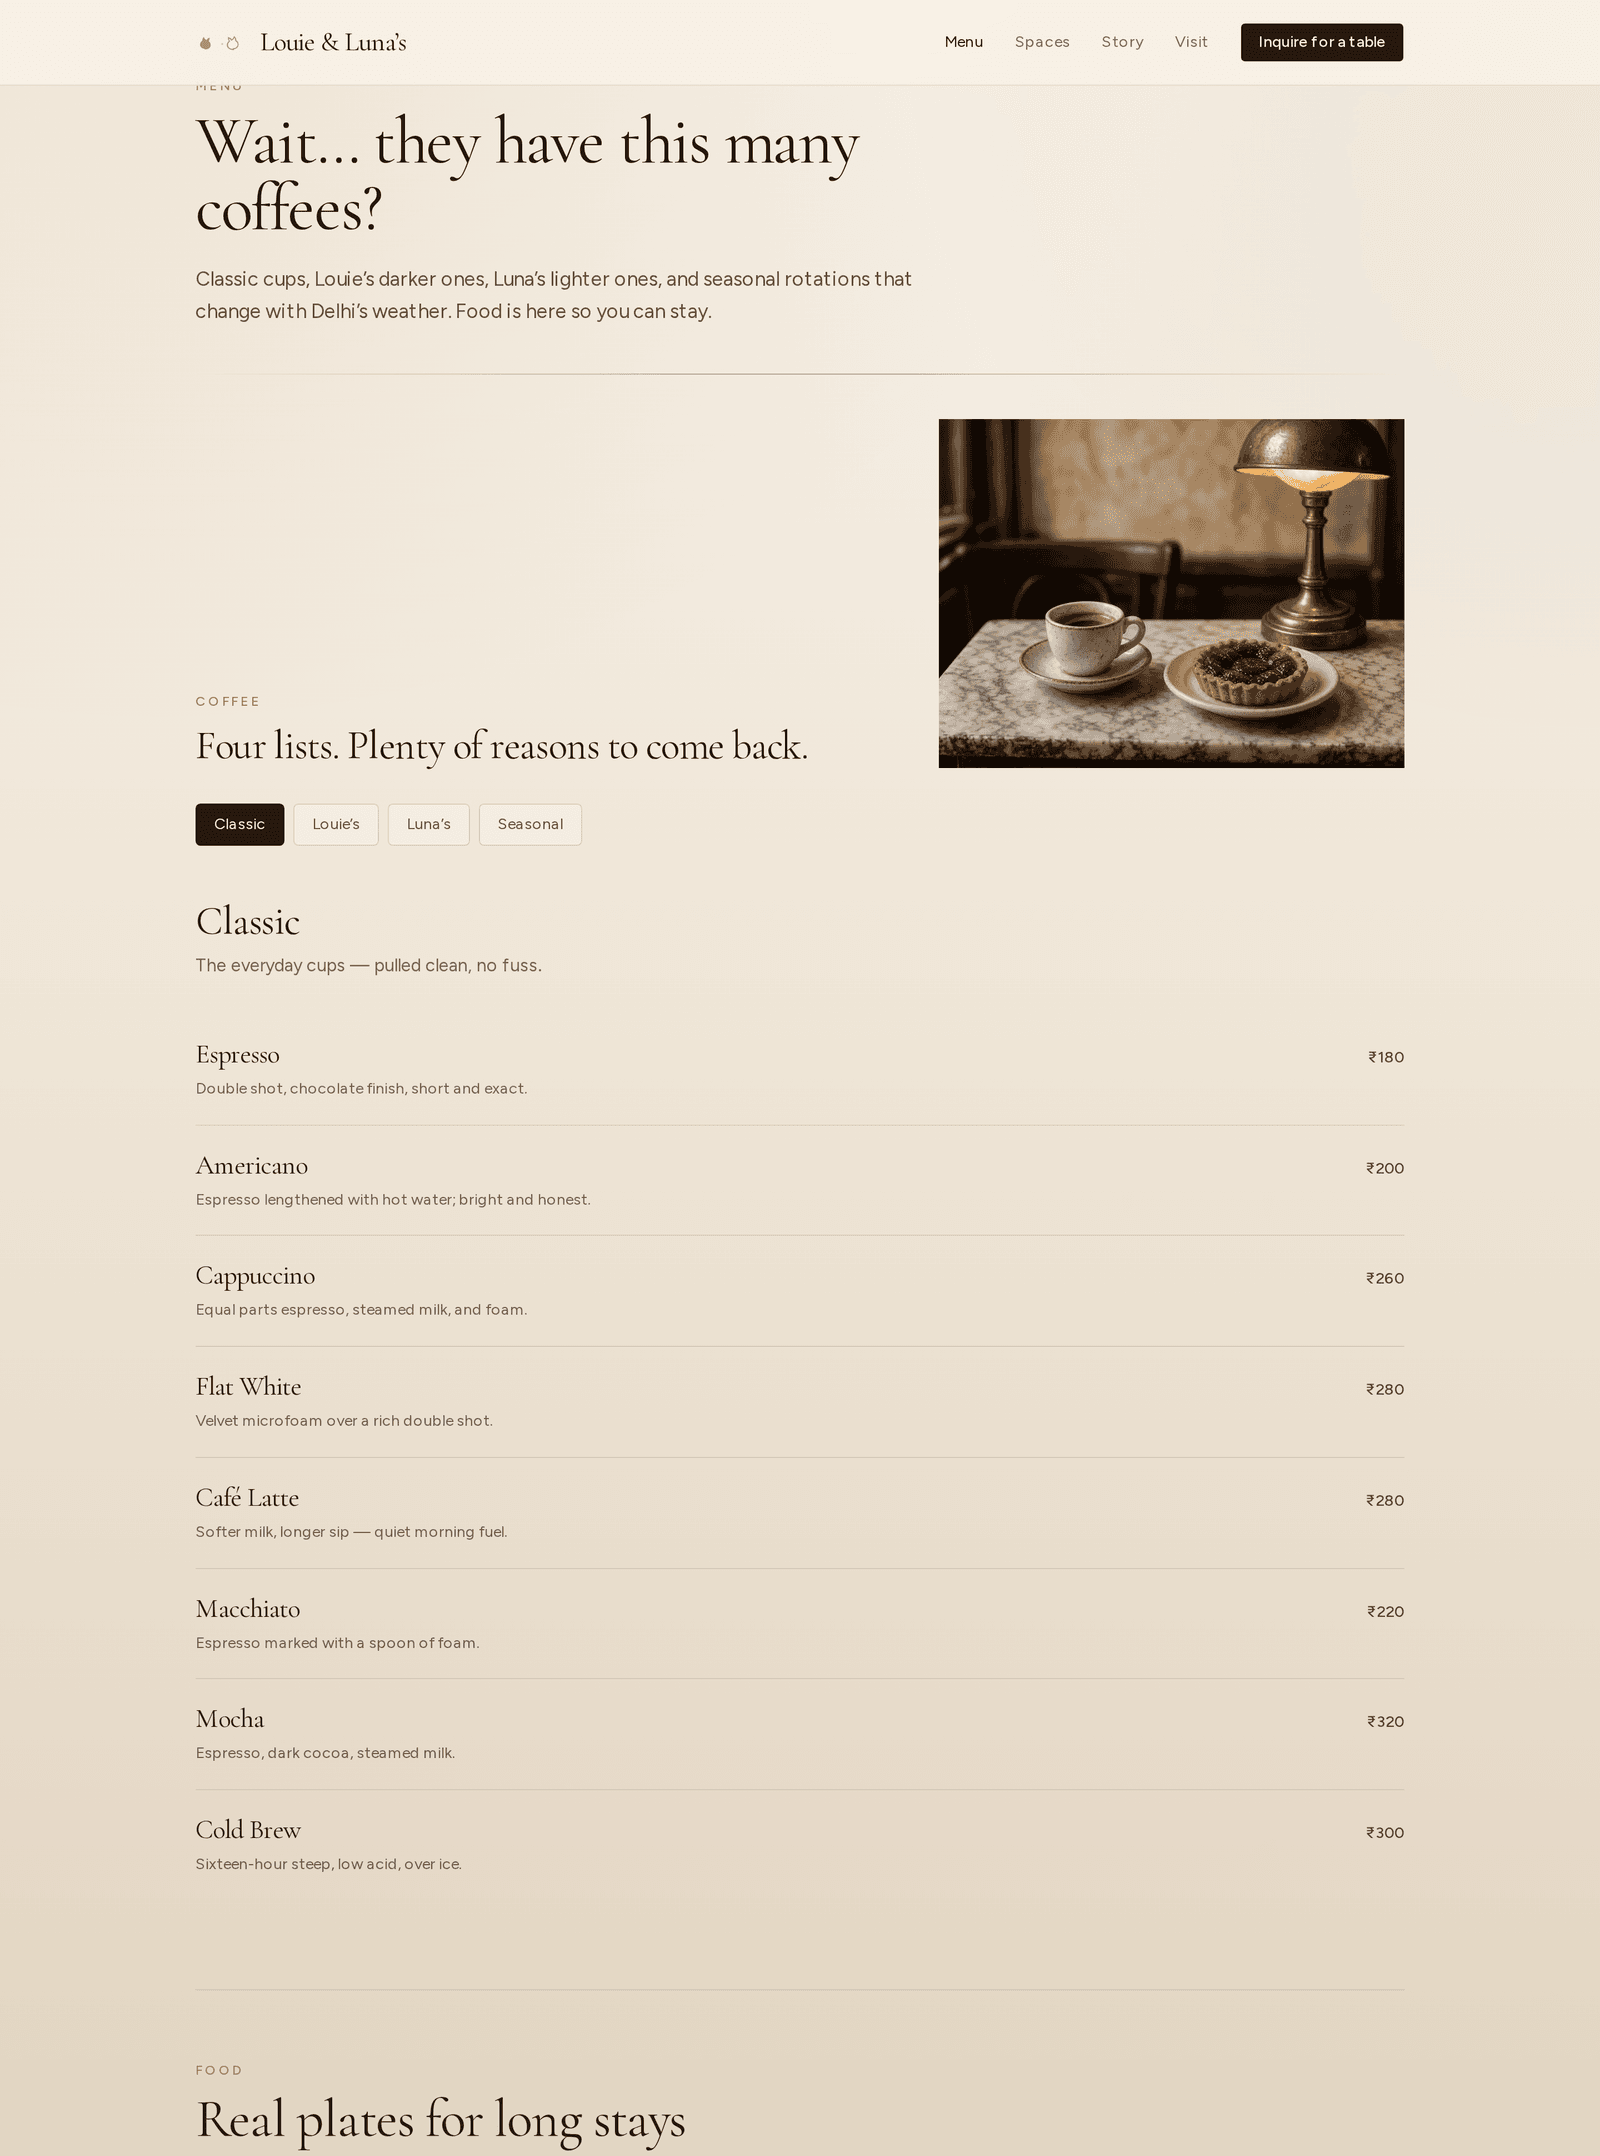
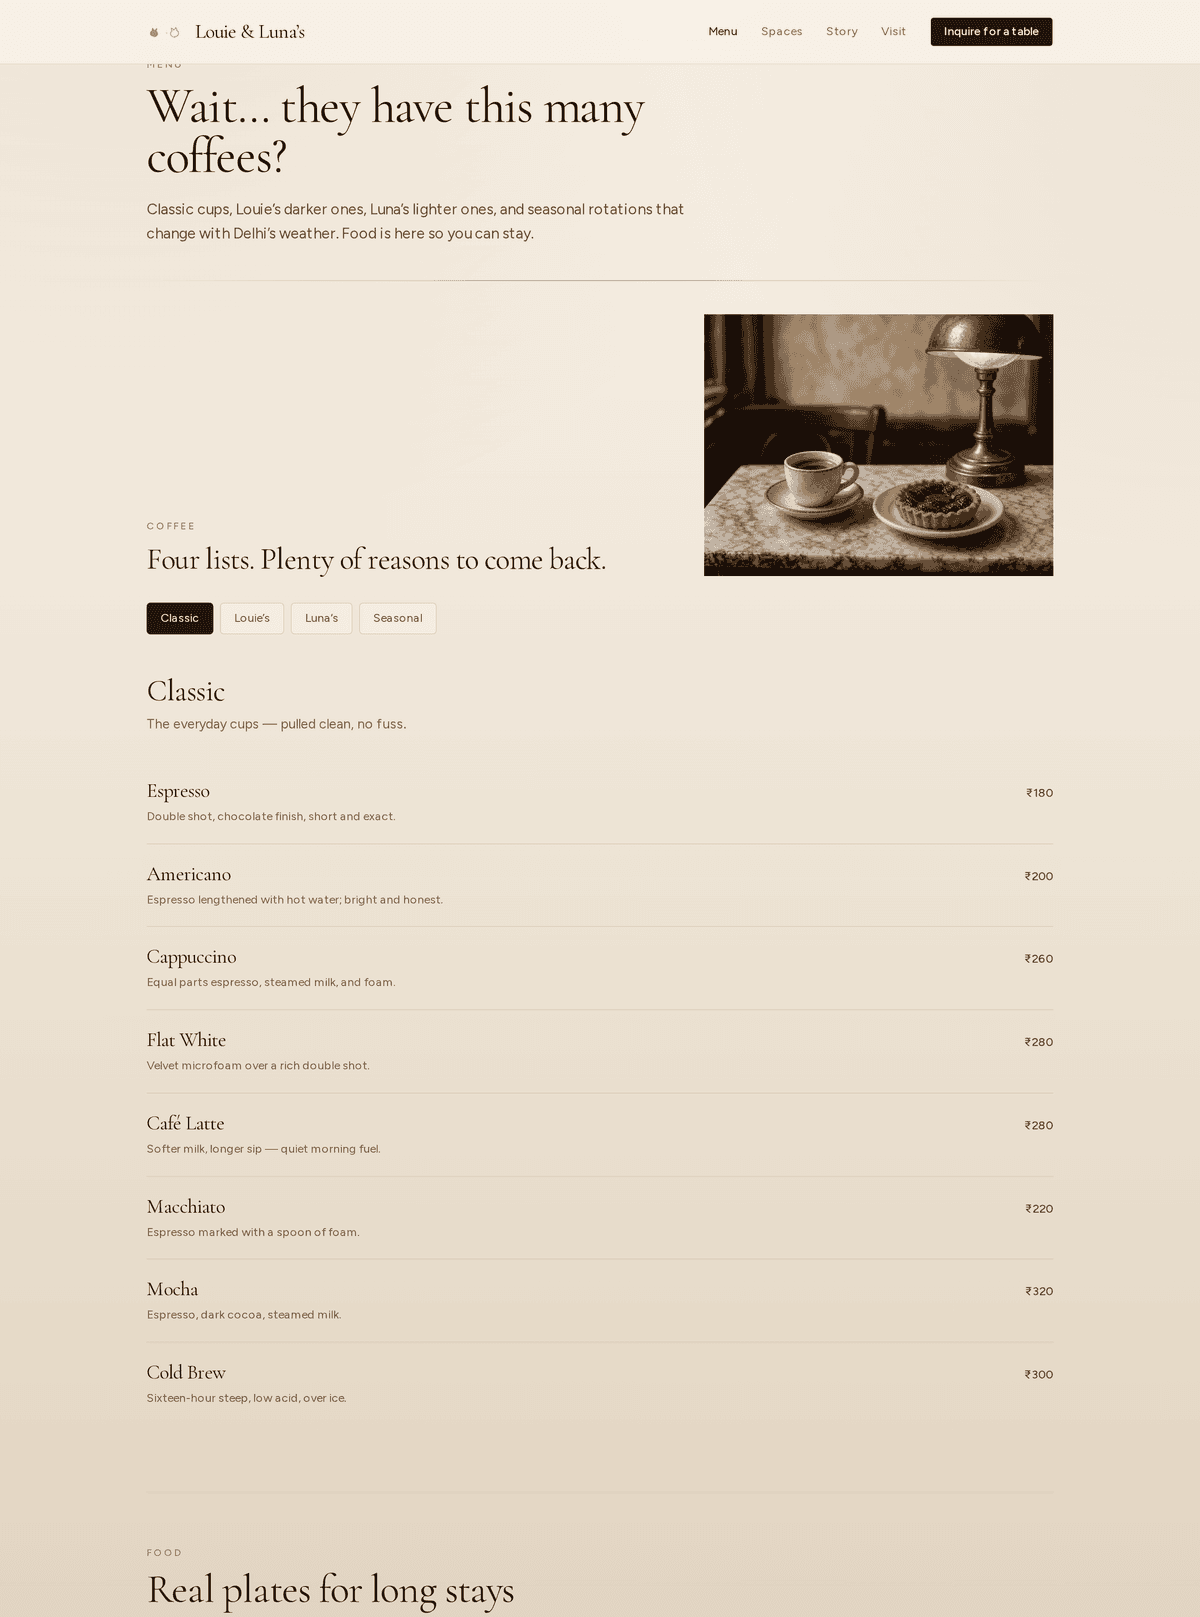
Rewrite README in a personal voice with compact screenshots

Changed region(s): [[0.7708, 0.2165, 0.8633, 0.2474], [0.7708, 0.0, 0.8633, 0.0309], [0.1233, 0.3711, 0.1542, 0.402]]

diff --git a/README.md b/README.md
@@ -1,36 +1,28 @@
 # Louie & Luna's
 
-Marketing site for a fictional Old-World Parisian café in New Delhi, built with Next.js and Tailwind CSS.
+The website for a café that doesn't exist.
 
-## What this is
+I'm a coffee enthusiast, and I've spent most of the last four months studying in cafés. Somewhere in there I started imagining my own — an Old-World Parisian one — and rather than let it stay a daydream, I figured the easiest way to actually see it was to build its website.
 
-A personal project by someone who spends too much time thinking about coffee menus. Louie & Luna's is not a real café — it is a made-up one in Lodhi Estate, New Delhi, with Belle Époque interiors, a dining room, a co-working corner, and two Persian cats named Louie and Luna.
+So: Louie & Luna's sits in a leafy Lodhi Estate bungalow in New Delhi. Belle Époque interiors, a dining space, and a co-working corner for people like me who study in cafés. Louie and Luna are the two Persian cats who run the place in spirit — Louie black, Luna white — and there's a silly bit of lore that they used to be an Indian couple in their forties and somehow ended up as cats.
 
-The site exists as a design and front-end exercise: a brand-led landing page, a coffee list deep enough to be the actual hook, a real food menu, and a table-inquiry path that goes to email instead of a booking system.
+The menu is the real point. Way too many coffees, split into four lists: Classic, Louie's (darker, bolder), Luna's (lighter, floral), and Seasonal.
 
-Live: [louie-and-lunas-cafe.vercel.app](https://louie-and-lunas-cafe.vercel.app)
+It's a fictional café and a fun side project. I also used it as an excuse to get comfortable building things with Cursor.
 
-## Screenshots
+**Live:** [louie-and-lunas-cafe.vercel.app](https://louie-and-lunas-cafe.vercel.app)
 
-Home
-
-![Home hero](docs/home.png)
-
-Menu — coffee categories and the food section
-
-![Menu page](docs/menu.png)
-
-Spaces
-
-![Spaces page](docs/spaces.png)
+<p>
+  <img src="docs/home.png" alt="Home page hero" width="460">
+  <img src="docs/spaces.png" alt="Spaces page" width="460">
+</p>
+<p>
+  <img src="docs/menu.png" alt="Menu page" width="460">
+</p>
 
 ## Stack
 
-- Next.js 16 (App Router, Turbopack)
-- React 19 + TypeScript
-- Tailwind CSS v4
-- shadcn/ui primitives
-- Cormorant Garamond + Figtree via `next/font`
+Next.js (App Router), TypeScript, Tailwind CSS, shadcn/ui.
 
 ## Run locally
 
@@ -39,49 +31,18 @@ npm install
 npm run dev
 ```
 
-The dev server listens on [http://127.0.0.1:4321](http://127.0.0.1:4321) (port set in `package.json`).
+Then open [http://127.0.0.1:4321](http://127.0.0.1:4321).
 
-Production build:
+## What's in here
 
-```bash
-npm run build
-npm run start -- -p 4321
-```
+| Route | |
+|---|---|
+| `/` | The hero shot and a quick tour of the room |
+| `/menu` | The four coffee lists, plus food |
+| `/spaces` | Dining room and the co-working corner |
+| `/story` | How Louie and Luna ended up as cats |
+| `/visit` | Address, hours, and a table inquiry that just opens an email |
 
-## Pages
+## One note
 
-| Path | What's there |
-|------|--------------|
-| `/` | Hero, the feel of the room, spaces tease, coffee identity, the two cats |
-| `/menu` | Coffee in four lists (Classic, Louie's, Luna's, Seasonal) plus the full food menu |
-| `/spaces` | Dining room and co-working corner, with house rules |
-| `/story` | How Louie and Luna came to run the place |
-| `/visit` | Address, hours, Metro directions, and a table inquiry form |
-
-## Design notes
-
-**Palette.** Warm parchment and cream against espresso brown, with brass as the only accent. Defined as CSS custom properties in `src/app/globals.css` and exposed to Tailwind through `@theme inline`. No pure black, no pure white — everything is slightly aged.
-
-**The cats are subtle.** Louie and Luna are the reason the place has a name, not the wallpaper. They appear as a small two-silhouette mark in the header and footer, once on the home page, and once properly on `/story`. The rest of the site is about the room and the coffee.
-
-**Coffee is the identity.** The menu splits into four lists instead of one long one, and two of them are named after the cats: Louie's are the darker, richer, spice-and-smoke cups, Luna's are lighter, floral, and creamy. Categories switch via `?cat=` on a server component, so the tabs work without client-side JavaScript.
-
-**Motion is restrained.** A slow lamp flicker in the hero, a staggered reveal on first paint, and nothing else. All of it is disabled under `prefers-reduced-motion`.
-
-## Deploy
-
-Deployed on Vercel from the `main` branch of this repo. Pushing to `main` triggers a production deploy; pull requests get preview deploys.
-
-One environment variable matters:
-
-| Variable | Purpose |
-|----------|---------|
-| `NEXT_PUBLIC_SITE_URL` | Deployment origin used as `metadataBase` so Open Graph and Twitter card image URLs resolve absolutely. Falls back to `https://louieandlunas.in` (the café's fictional domain) when unset. |
-
-Set it to the real origin in the Vercel project settings — for this deployment, `https://louie-and-lunas-cafe.vercel.app`.
-
-Social assets live in `public/`: `og.png` (1200×630), `icon.svg`, and `apple-icon.png`.
-
-## A note on the content
-
-Everything here is fictional: the café, the address, the phone number, the email, the prices, and the cats' backstory. The inquiry form opens a prefilled email draft — there is no backend, no database, no accounts, and no reservation system behind it.
+The address, phone number, hours, and prices are all made up, and the images are AI-generated.
